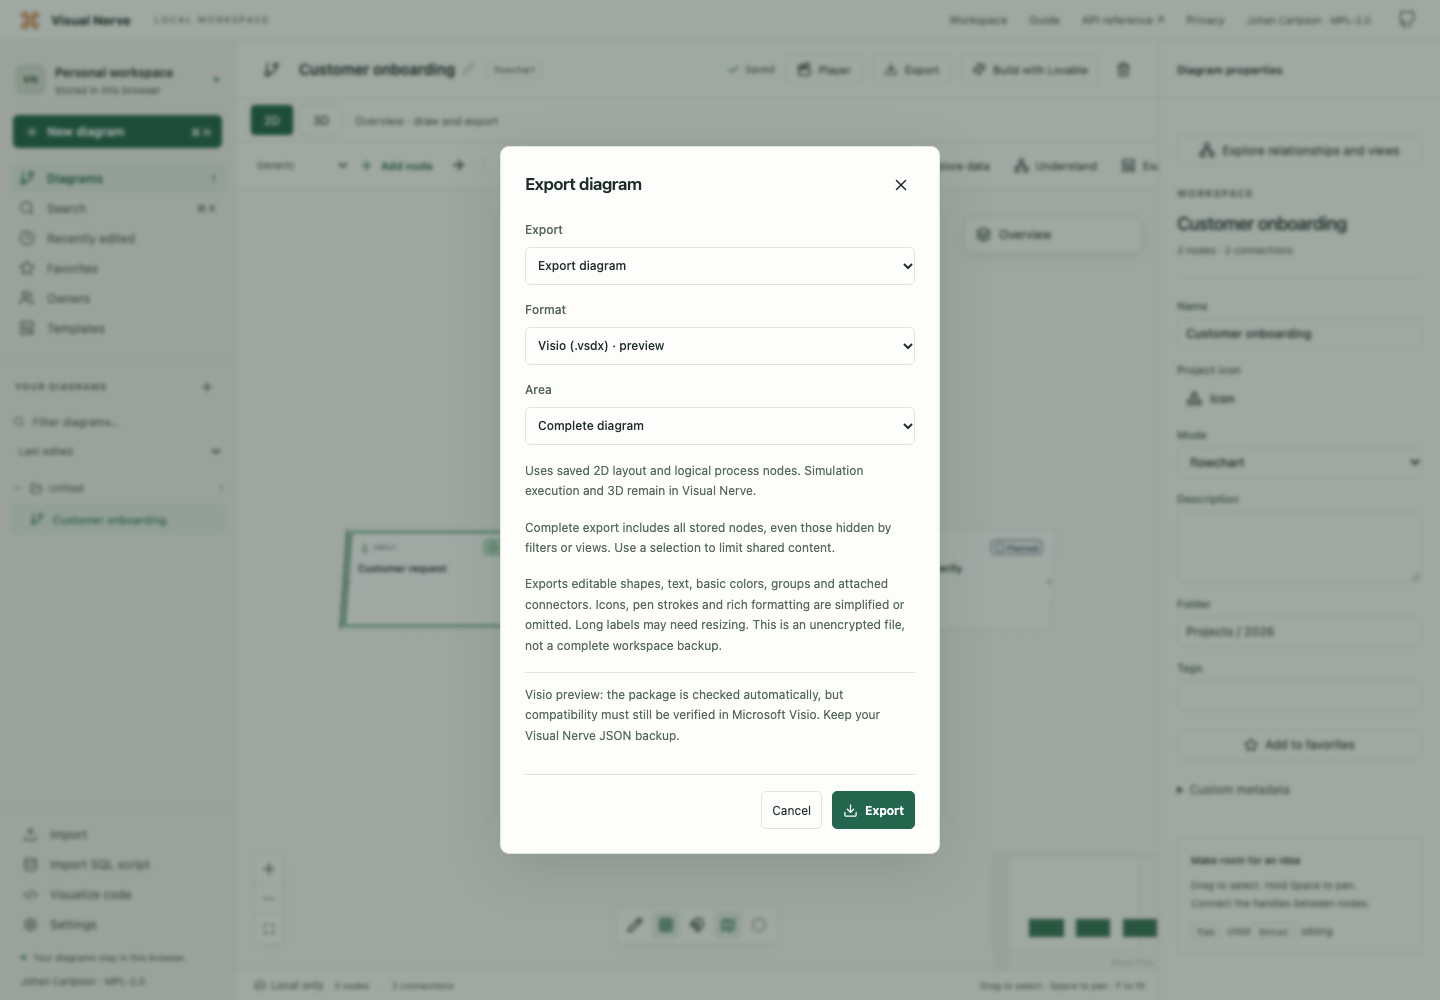
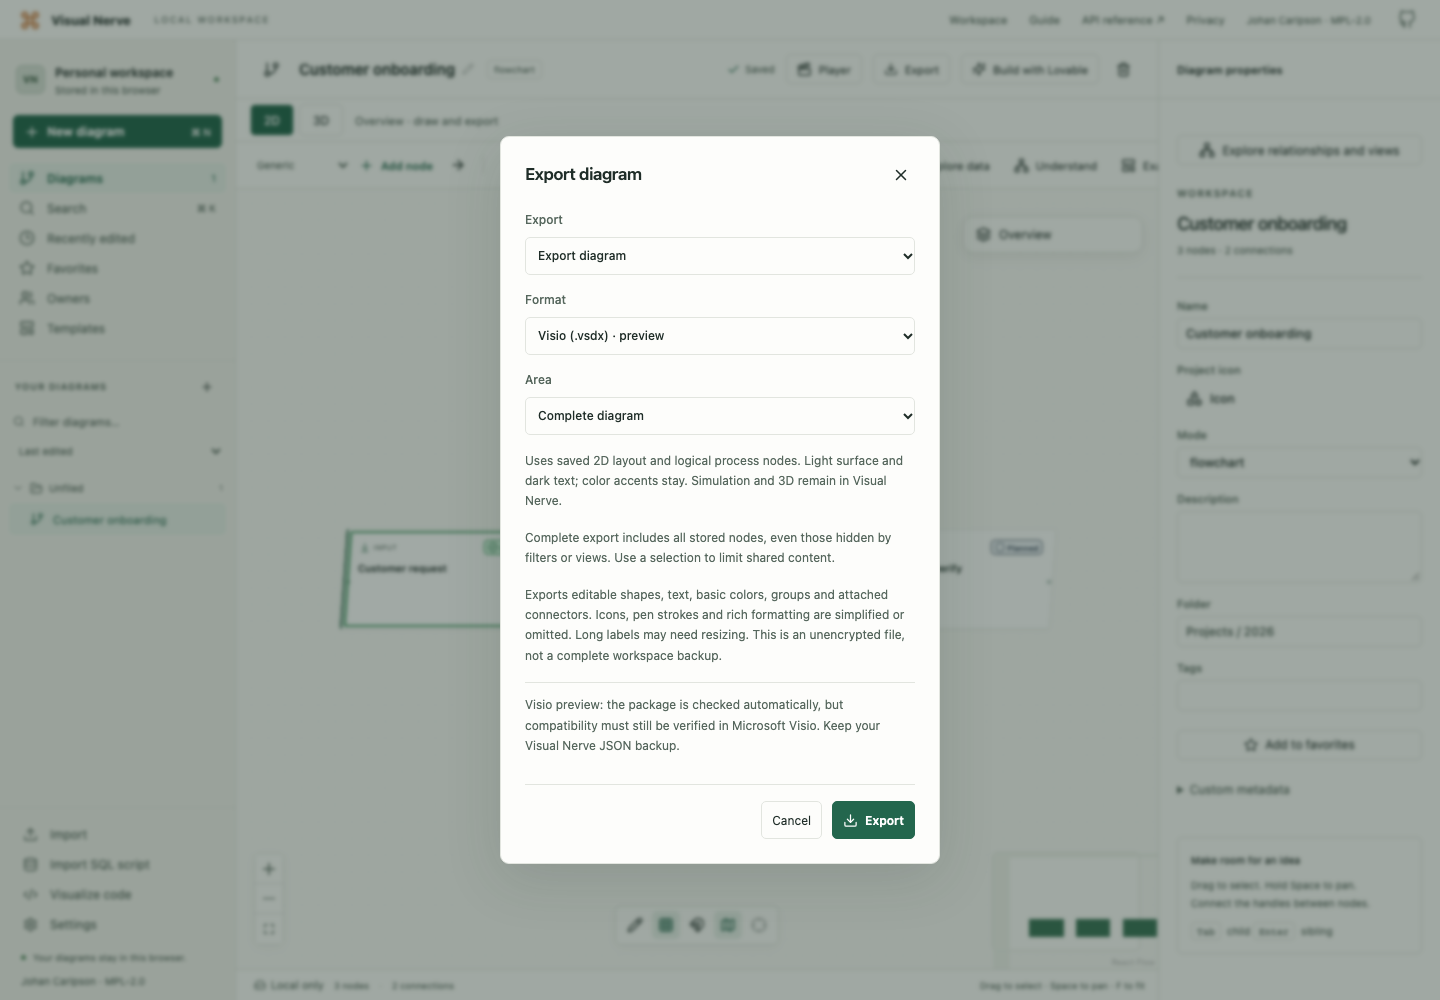
fix: preserve readable editable exports across appearance modes

Changed region(s): [[0.3438, 0.217, 0.625, 0.775], [0.3438, 0.775, 0.6562, 0.868], [0.3438, 0.124, 0.6562, 0.217]]

diff --git a/frontend/src/export/exchange-scene.ts b/frontend/src/export/exchange-scene.ts
@@ -180,11 +180,11 @@ export function exchangeColor(value: unknown, fallback: string) {
   return fallback;
 }
 
-/** Canonical saved 2D geometry and logical nodes. Live capacity cards never duplicate the model. */
+/** Canonical saved 2D geometry on a portable light surface, independent of workspace Appearance. */
 export function exchangeScene(
   graph: Graph,
   options: ExchangeOptions,
-  theme: SvgTheme,
+  _theme: SvgTheme,
 ): ExchangeScene {
   validateExchangeOptions(graph, options);
   const all = new Map(graph.nodes.map((node) => [node.id, node]));
@@ -246,9 +246,11 @@ export function exchangeScene(
     (edge) => edgeById.has(edge.id) || !all.get(edge.target)?.metadata.exchangeNoDerivedHierarchy,
   );
   let textCharacters = graph.diagram.name.length;
-  const textColor = exchangeColor(theme.text, '#1F2D28');
-  const fill = exchangeColor(theme.node, '#FFFFFF');
-  const stroke = exchangeColor(theme.border, '#E2E5DF');
+  // Receiving editors have their own theme rules. A consistent light drawing avoids
+  // white group titles on white Visio pages and retains readable connector labels.
+  const textColor = '#1F2D28';
+  const fill = '#FFFFFF';
+  const stroke = '#56675D';
   const result = projection.nodes.map((view) => {
     const node = view.data.node;
     // Model positions are absolute, including grouped nodes; only timeline projects another x/width.
@@ -321,7 +323,7 @@ export function exchangeScene(
     {
       code: 'EDITABLE_FORMAT_FIDELITY',
       message:
-        'Native editable shapes preserve text, basic colors, groups and connections. Icons, custom stencils, pen strokes, rich formatting and 3D relief are simplified or omitted. Long labels may need resizing in the destination editor. Use Visual Nerve JSON for a complete model backup.',
+        'Native editable shapes use a light drawing surface with dark labels regardless of workspace Appearance. Stored node, connection and mind map branch color accents are retained. Icons, custom stencils, pen strokes, rich formatting and 3D relief are simplified or omitted. Long labels may need resizing in the destination editor. Use Visual Nerve JSON for a complete model backup.',
     },
   ];
   if (graph.diagram.metadata.exchangeSimulation)
@@ -358,6 +360,7 @@ export function exchangeScene(
     });
   return {
     name: graph.diagram.name,
+    background: '#FFFFFF',
     nodes: result,
     edges: projectedEdges.map((edge) => ({
       id: edge.id,
@@ -367,9 +370,11 @@ export function exchangeScene(
       direction: edgeById.get(edge.id)?.direction ?? 'none',
       style: edgeById.get(edge.id)?.style ?? 'solid',
       stroke: exchangeColor(
-        edgeById.get(edge.id)?.metadata.exchangeStroke ?? edge.style?.stroke,
-        exchangeColor(theme.muted, '#56675D'),
+        edgeById.get(edge.id)?.metadata.exchangeStroke ??
+          (!edgeById.has(edge.id) ? edge.style?.stroke : undefined),
+        stroke,
       ),
+      textColor,
     })),
     warnings,
   };

diff --git a/frontend/tests/e2e/exchange-export.spec.ts b/frontend/tests/e2e/exchange-export.spec.ts
@@ -254,6 +254,7 @@ async function populate(request: APIRequestContext) {
           label: 'Approve & <next>',
           direction: 'both',
           style: 'dotted',
+          metadata: { diagramImport: { format: 'drawio', strokeColor: '#B3CBE7' } },
         },
         {
           sourceNodeId: b,
@@ -270,7 +271,7 @@ async function populate(request: APIRequestContext) {
 }
 
 graphicsTest(
-  'UI downloads and native REST chunks match for both editable formats; 3D preserves the canonical 2D drawing',
+  'UI downloads and native REST chunks match for both editable formats; dark Appearance and 3D preserve the readable 2D drawing',
   async ({ page, request }, info) => {
     test.setTimeout(120_000);
     const { graph, ids } = await populate(request);
@@ -331,6 +332,28 @@ graphicsTest(
     const selectedUi = await download(page, 'drawio', 'selected');
     expect(selectedUi.equals(selectedApi.bytes)).toBe(true);
     assertNativeContent(selectedUi, 'drawio', 1, 0);
+    // A receiving drawing stays legible even when workspace Appearance changes.
+    const themed = await request.put('/api/v1/settings/theme', { data: { value: 'dark' } });
+    expect(themed.status(), await themed.text()).toBe(200);
+    await expect(page.locator('html')).toHaveAttribute('data-theme', 'dark');
+    for (const format of ['drawio', 'vsdx'] as const) {
+      const job = await start(request, graph.diagram.id, format);
+      await completed(request, job.jobId);
+      const darkApi = await result(request, job.jobId, format);
+      expect(darkApi.bytes.equals(canonical.get(format)!)).toBe(true);
+      expect((await download(page, format)).equals(canonical.get(format)!)).toBe(true);
+      if (format === 'drawio') {
+        const xml = darkApi.bytes.toString('utf8');
+        expect(xml).toContain('background="#FFFFFF"');
+        expect(xml).toContain('adaptiveColors="none"');
+        expect(xml).toContain('strokeColor=#B3CBE7;fontColor=#1F2D28');
+      } else {
+        const xml = strFromU8(unzipSync(darkApi.bytes)['visio/pages/page1.xml']);
+        expect(xml).toContain('<Cell N="LineColor" V="#B3CBE7"');
+        expect(xml).toContain('<Cell N="Color" V="#1F2D28"');
+        expect(xml).not.toContain('#E1E7E1');
+      }
+    }
     const saved = (await (
       await request.get(`/api/v1/diagrams/${graph.diagram.id}`)
     ).json()) as Graph;

diff --git a/frontend/tests/exchange-drawio.test.ts b/frontend/tests/exchange-drawio.test.ts
@@ -140,6 +140,44 @@ describe('editable draw.io export', () => {
     });
   });
 
+  it('keeps a portable light surface and independent label ink when the receiving editor is dark', () => {
+    const value = scene(
+      [
+        node('group', { kind: 'group', fill: '#FFFFFF', textColor: '#1F2D28' }),
+        node('a', { parentId: 'group', fill: '#FFFFFF', stroke: '#31766C' }),
+        node('b', { fill: '#FFFFFF', stroke: '#31766C' }),
+      ],
+      [edge('e', { stroke: '#98A79D' })],
+    );
+    const document = parseXml(xml(value));
+    const model = first(first(document, 'diagram')!, 'mxGraphModel')!;
+    expect(model.attributes).toMatchObject({ background: '#FFFFFF', adaptiveColors: 'none' });
+    const entries = cells(xml(value));
+    expect(style(byId(entries, 'n1'))).toMatchObject({
+      fillColor: '#FFFFFF',
+      fontColor: '#1F2D28',
+    });
+    expect(style(byId(entries, 'n2')).strokeColor).toBe('#31766C');
+    expect(style(byId(entries, 'e1'))).toMatchObject({
+      strokeColor: '#98A79D',
+      fontColor: '#1F2D28',
+    });
+    value.background = '#FFF5E1';
+    value.edges[0].textColor = '#24372F';
+    const customOutput = xml(value);
+    expect(
+      attr(first(first(parseXml(customOutput), 'diagram')!, 'mxGraphModel')!, 'background'),
+    ).toBe('#FFF5E1');
+    expect(style(byId(cells(customOutput), 'e1'))).toMatchObject({
+      strokeColor: '#98A79D',
+      fontColor: '#24372F',
+    });
+    const imported = parseDrawio(customOutput, 'portable.drawio').pages[0].graph;
+    expect(imported.edges[0].metadata.diagramImport).toMatchObject({
+      strokeColor: '#98a79d',
+    });
+  });
+
   it('writes nested groups with relative coordinates and connectors in their common ancestor', () => {
     const value = scene(
       [
@@ -319,6 +357,8 @@ describe('editable draw.io export', () => {
     scene([node('a', { x: Infinity })]),
     scene([node('a', { width: 0 })]),
     scene([node('a', { fill: '#fff;shape=image;image=https://bad.test' })]),
+    { ...scene([node('a')]), background: '#fff"/><script/>' },
+    scene([node('a'), node('b')], [edge('e', { textColor: '#fff;image=https://bad.test' })]),
   ])('rejects invalid scenes before returning ambiguous or unsafe objects', (value) => {
     expect(() => serializeDrawio(value)).toThrow(ExchangeExportError);
   });

diff --git a/frontend/tests/exchange-scene.test.ts b/frontend/tests/exchange-scene.test.ts
@@ -16,6 +16,48 @@ const theme: SvgTheme = {
   doneBorder: '#16803D',
 };
 describe('deliberate editable exchange content and canonical geometry', () => {
+  it('uses the same readable light drawing in dark Appearance while retaining explicit accents', () => {
+    const graph = blankGraph('Portable colors');
+    const group = newNode(graph.diagram.id, { nodeType: 'group', title: 'Operations' });
+    const a = newNode(graph.diagram.id, {
+      title: 'Assembly',
+      color: '#b3cbe7',
+      parentId: group.id,
+    });
+    const b = newNode(graph.diagram.id, { title: 'Delivered' });
+    graph.nodes = [group, a, b];
+    graph.edges = [
+      newEdge(graph.diagram.id, a.id, b.id, {
+        label: 'Pale accent, readable label',
+        metadata: { diagramImport: { format: 'drawio', strokeColor: '#b3cbe7' } },
+      }),
+      newEdge(graph.diagram.id, b.id, a.id, { label: 'Default connection' }),
+    ];
+    const snapshot = exchangeGraphSnapshot(graph);
+    const light = exchangeScene(snapshot, {}, theme);
+    const dark = exchangeScene(
+      snapshot,
+      {},
+      {
+        ...theme,
+        background: '#151F19',
+        node: '#242D27',
+        text: '#E1E7E1',
+        muted: '#8A9694',
+        border: '#49594F',
+      },
+    );
+    expect(dark).toEqual(light);
+    expect(dark.background).toBe('#FFFFFF');
+    expect(
+      dark.nodes.every((node) => node.fill === '#FFFFFF' && node.textColor === '#1F2D28'),
+    ).toBe(true);
+    expect(dark.nodes.find((node) => node.id === a.id)?.stroke).toBe('#B3CBE7');
+    expect(dark.edges).toMatchObject([
+      { stroke: '#B3CBE7', textColor: '#1F2D28' },
+      { stroke: '#56675D', textColor: '#1F2D28' },
+    ]);
+  });
   it('does not recreate deliberately suppressed CSV parent relationships or copy raw CSV metadata', () => {
     const graph = blankGraph('CSV hierarchy', 'mindmap');
     const parent = newNode(graph.diagram.id, { title: 'All customers' });

diff --git a/frontend/src/export/exchange-drawio.ts b/frontend/src/export/exchange-drawio.ts
@@ -64,7 +64,7 @@ function edgeStyle(edge: ExchangeEdge): string {
       : edge.style === 'dashed'
         ? 'dashed=1;dashPattern=6 4;'
         : 'dashed=0;';
-  return `edgeStyle=orthogonalEdgeStyle;rounded=0;html=0;whiteSpace=wrap;strokeWidth=1.6;strokeColor=${color(edge.stroke)};fontColor=${color(edge.stroke)};startArrow=${start ? 'classic' : 'none'};endArrow=${end ? 'classic' : 'none'};startFill=1;endFill=1;${dash}`;
+  return `edgeStyle=orthogonalEdgeStyle;rounded=0;html=0;whiteSpace=wrap;strokeWidth=1.6;strokeColor=${color(edge.stroke)};fontColor=${color(edge.textColor ?? '#1F2D28')};startArrow=${start ? 'classic' : 'none'};endArrow=${end ? 'classic' : 'none'};startFill=1;endFill=1;${dash}`;
 }
 
 /** Validate references and index the parent tree for bounded common-ancestor lookup. */
@@ -158,7 +158,8 @@ export function serializeDrawio(
         'Specialised card kinds and decorations are simplified to standard editable draw.io shapes. Start/end and input/output kinds share shapes.',
     });
   writer.write(
-    `<?xml version="1.0" encoding="UTF-8"?><mxfile compressed="false"><diagram id="page-1" name="${exchangeXML(scene.name)}"><mxGraphModel grid="0" guides="1" tooltips="1" connect="1" arrows="1" fold="1" page="0" math="0" shadow="0"><root><mxCell id="0"/><mxCell id="1" parent="0"/>`,
+    // Disabling adaptive colours keeps the portable surface and ink readable in dark editors.
+    `<?xml version="1.0" encoding="UTF-8"?><mxfile compressed="false"><diagram id="page-1" name="${exchangeXML(scene.name)}"><mxGraphModel background="${exchangeXML(color(scene.background ?? '#FFFFFF'))}" adaptiveColors="none" grid="0" guides="1" tooltips="1" connect="1" arrows="1" fold="1" page="0" math="0" shadow="0"><root><mxCell id="0"/><mxCell id="1" parent="0"/>`,
   );
   // Parent cells precede their children even if the source list uses a different order.
   const order = scene.nodes

diff --git a/frontend/tests/exchange-visio.test.ts b/frontend/tests/exchange-visio.test.ts
@@ -389,6 +389,32 @@ describe('native Visio exchange export', () => {
     expect(input.warnings).toHaveLength(1);
   });
 
+  it('keeps pale connector accents separate from portable dark label text', () => {
+    const { page } = packageXml(
+      scene(
+        [node('left'), node('right', { x: 384 })],
+        [
+          edge('pale', 'left', 'right', { stroke: '#B3CBE7', label: 'Readable pale accent' }),
+          edge('explicit-ink', 'left', 'right', { stroke: '#FFFFFF', textColor: '#223344' }),
+        ],
+      ),
+    );
+    const connectors = Array.from(page.getElementsByTagName('Shape')).slice(2);
+    expect(connectors.map((shape) => cells(shape).get('LineColor')?.getAttribute('V'))).toEqual([
+      '#B3CBE7',
+      '#FFFFFF',
+    ]);
+    expect(
+      connectors.map((shape) =>
+        children(shape, 'Section')
+          .find((section) => section.getAttribute('N') === 'Character')
+          ?.querySelector('Cell[N="Color"]')
+          ?.getAttribute('V'),
+      ),
+    ).toEqual(['#1F2D28', '#223344']);
+    expect(children(connectors[0], 'Text')[0].textContent).toBe('Readable pale accent');
+  });
+
   it('exports deliberately selected scene content without arbitrary metadata or external resources', () => {
     const input = scene([node('first', { description: 'Public description' })]);
     Object.assign(input, {

diff --git a/frontend/src/i18n/catalogs/fr.ts b/frontend/src/i18n/catalogs/fr.ts
@@ -10,7 +10,7 @@ const catalog = {
   'dialogs.exportVisioPreviewHint':
     'Aperçu Visio : le paquet est contrôlé automatiquement, mais sa compatibilité doit encore être vérifiée dans Microsoft Visio. Conservez votre sauvegarde JSON Visual Nerve.',
   'dialogs.exportEditable2DHint':
-    'Utilise la disposition 2D enregistrée et les nœuds logiques du processus. La simulation et la 3D restent dans Visual Nerve.',
+    'Utilise la disposition 2D enregistrée et les nœuds logiques du processus. Fond clair, texte sombre et couleurs d’accent conservées. La simulation et la 3D restent dans Visual Nerve.',
   'dialogs.exportEditableProgress': 'Préparation de l’export modifiable · {percent}%',
   'dialogs.exportSvgSourceHint':
     'Le texte source masqué peut rester dans le fichier SVG. Vérifiez-le avant de le partager.',

diff --git a/frontend/src/i18n/catalogs/es.ts b/frontend/src/i18n/catalogs/es.ts
@@ -10,7 +10,7 @@ const catalog = {
   'dialogs.exportVisioPreviewHint':
     'Versión preliminar de Visio: el paquete se comprueba automáticamente, pero la compatibilidad aún debe verificarse en Microsoft Visio. Conserva tu copia de seguridad JSON de Visual Nerve.',
   'dialogs.exportEditable2DHint':
-    'Usa el diseño 2D guardado y los nodos lógicos del proceso. La simulación y el 3D permanecen en Visual Nerve.',
+    'Usa el diseño 2D guardado y los nodos lógicos del proceso. Fondo claro, texto oscuro y colores de acento conservados. La simulación y el 3D permanecen en Visual Nerve.',
   'dialogs.exportEditableProgress': 'Preparando exportación editable · {percent}%',
   'dialogs.exportSvgSourceHint':
     'El texto fuente recortado puede permanecer en el SVG. Revísalo antes de compartirlo.',

diff --git a/frontend/src/i18n/catalogs/de.ts b/frontend/src/i18n/catalogs/de.ts
@@ -10,7 +10,7 @@ const catalog = {
   'dialogs.exportVisioPreviewHint':
     'Visio-Vorschau: Das Paket wird automatisch geprüft, die Kompatibilität muss jedoch noch in Microsoft Visio bestätigt werden. Behalten Sie Ihre Visual-Nerve-JSON-Sicherung.',
   'dialogs.exportEditable2DHint':
-    'Verwendet das gespeicherte 2D-Layout und logische Prozessknoten. Simulation und 3D bleiben in Visual Nerve.',
+    'Verwendet das gespeicherte 2D-Layout und logische Prozessknoten. Helle Fläche, dunkler Text, erhaltene Farbakzente. Simulation und 3D bleiben in Visual Nerve.',
   'dialogs.exportEditableProgress': 'Bearbeitbaren Export vorbereiten · {percent}%',
   'dialogs.exportSvgSourceHint':
     'Abgeschnittener Quelltext kann in der SVG-Datei enthalten sein. Prüfen Sie sie vor dem Teilen.',

diff --git a/frontend/src/i18n/catalogs/fi.ts b/frontend/src/i18n/catalogs/fi.ts
@@ -10,7 +10,7 @@ const catalog = {
   'dialogs.exportVisioPreviewHint':
     'Visio-esiversio: paketti tarkistetaan automaattisesti, mutta yhteensopivuus on vielä varmistettava Microsoft Visiossa. Säilytä Visual Nerven JSON-varmuuskopio.',
   'dialogs.exportEditable2DHint':
-    'Käyttää tallennettua 2D-asettelua ja loogisia prosessisolmuja. Simulointi ja 3D jäävät Visual Nerveen.',
+    'Käyttää tallennettua 2D-asettelua ja loogisia prosessisolmuja. Vaalea pinta ja tumma teksti; korostusvärit säilyvät. Simulointi ja 3D jäävät Visual Nerveen.',
   'dialogs.exportEditableProgress': 'Valmistellaan muokattavaa vientiä · {percent}%',
   'dialogs.exportSvgSourceHint':
     'Rajattu lähdeteksti voi säilyä SVG-tiedostossa. Tarkista tiedosto ennen jakamista.',

diff --git a/frontend/src/i18n/catalogs/sv.ts b/frontend/src/i18n/catalogs/sv.ts
@@ -10,7 +10,7 @@ const catalog = {
   'dialogs.exportVisioPreviewHint':
     'Visio-förhandsversion: paketet kontrolleras automatiskt, men kompatibiliteten behöver fortfarande verifieras i Microsoft Visio. Behåll din Visual Nerve-säkerhetskopia i JSON.',
   'dialogs.exportEditable2DHint':
-    'Använder sparad 2D-layout och logiska processnoder. Simulering och 3D finns kvar i Visual Nerve.',
+    'Använder sparad 2D-layout och logiska processnoder. Ljus yta, mörk text och bevarade färgaccenter. Simulering och 3D finns kvar i Visual Nerve.',
   'dialogs.exportEditableProgress': 'Förbereder redigerbar export · {percent}%',
   'dialogs.exportSvgSourceHint':
     'Källtext som inte syns på kortet kan finnas kvar i SVG-filen. Granska den innan du delar.',

diff --git a/frontend/src/i18n/catalogs/da.ts b/frontend/src/i18n/catalogs/da.ts
@@ -10,7 +10,7 @@ const catalog = {
   'dialogs.exportVisioPreviewHint':
     'Visio-forhåndsversion: pakken kontrolleres automatisk, men kompatibiliteten skal stadig verificeres i Microsoft Visio. Behold din Visual Nerve-sikkerhedskopi i JSON.',
   'dialogs.exportEditable2DHint':
-    'Bruger det gemte 2D-layout og logiske procesnoder. Simulering og 3D forbliver i Visual Nerve.',
+    'Bruger det gemte 2D-layout og logiske procesnoder. Lys flade, mørk tekst og bevarede farveaccenter. Simulering og 3D forbliver i Visual Nerve.',
   'dialogs.exportEditableProgress': 'Forbereder redigerbar eksport · {percent}%',
   'dialogs.exportSvgSourceHint':
     'Skjult kildetekst kan stadig være i SVG-filen. Gennemgå den, før du deler.',
